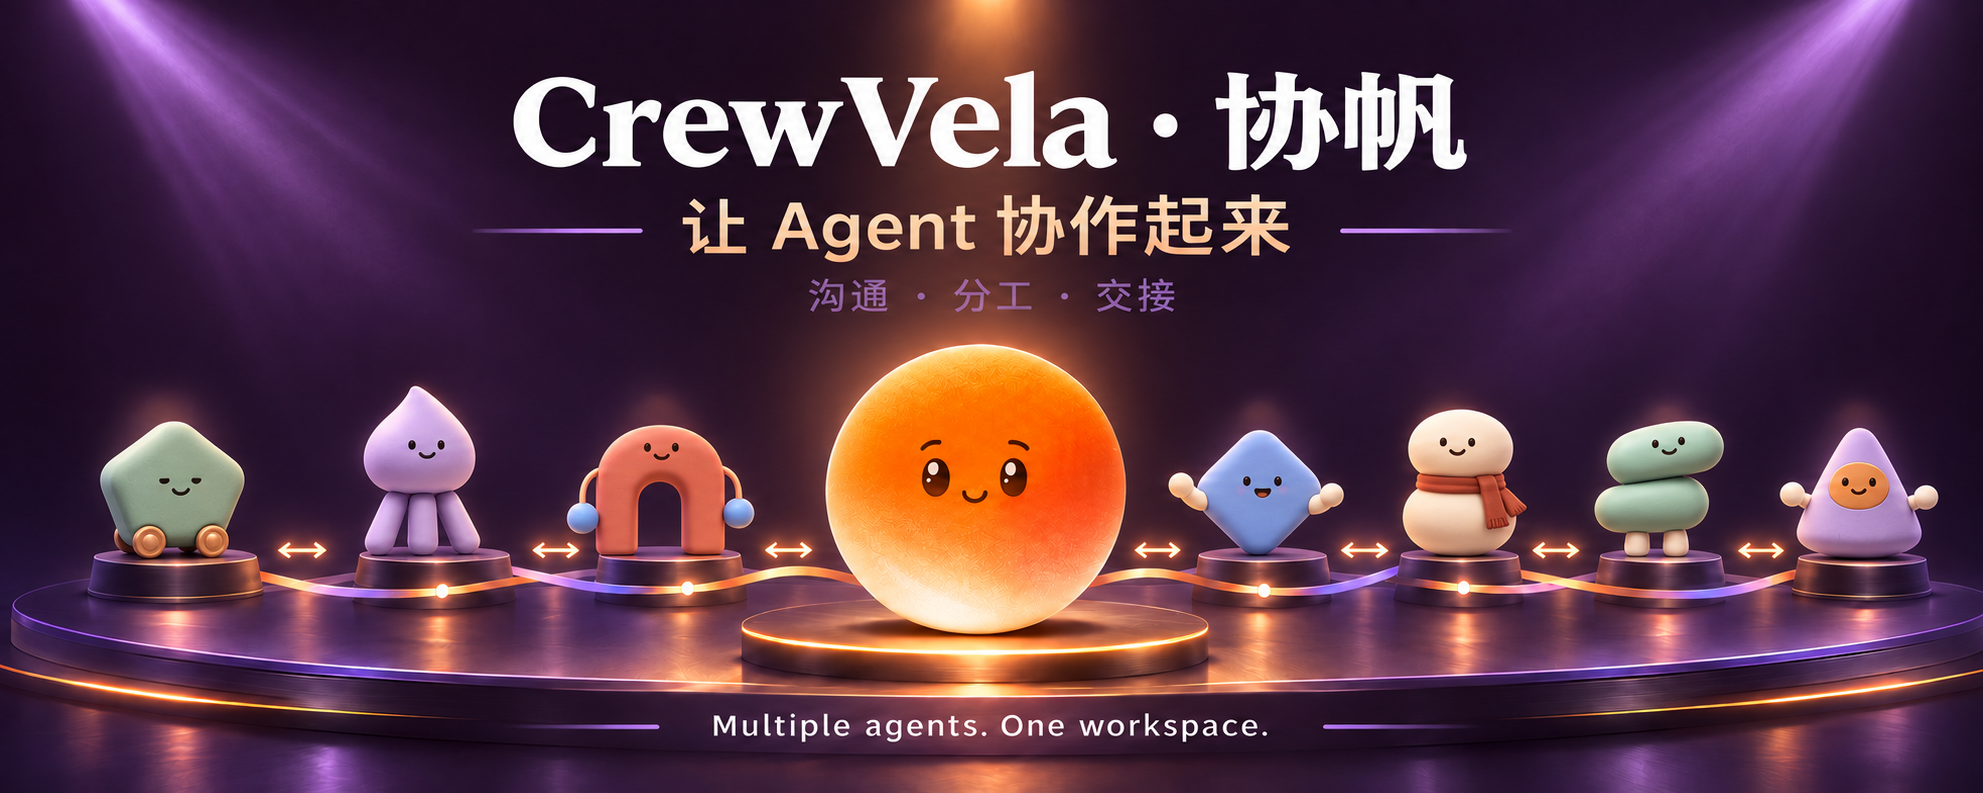
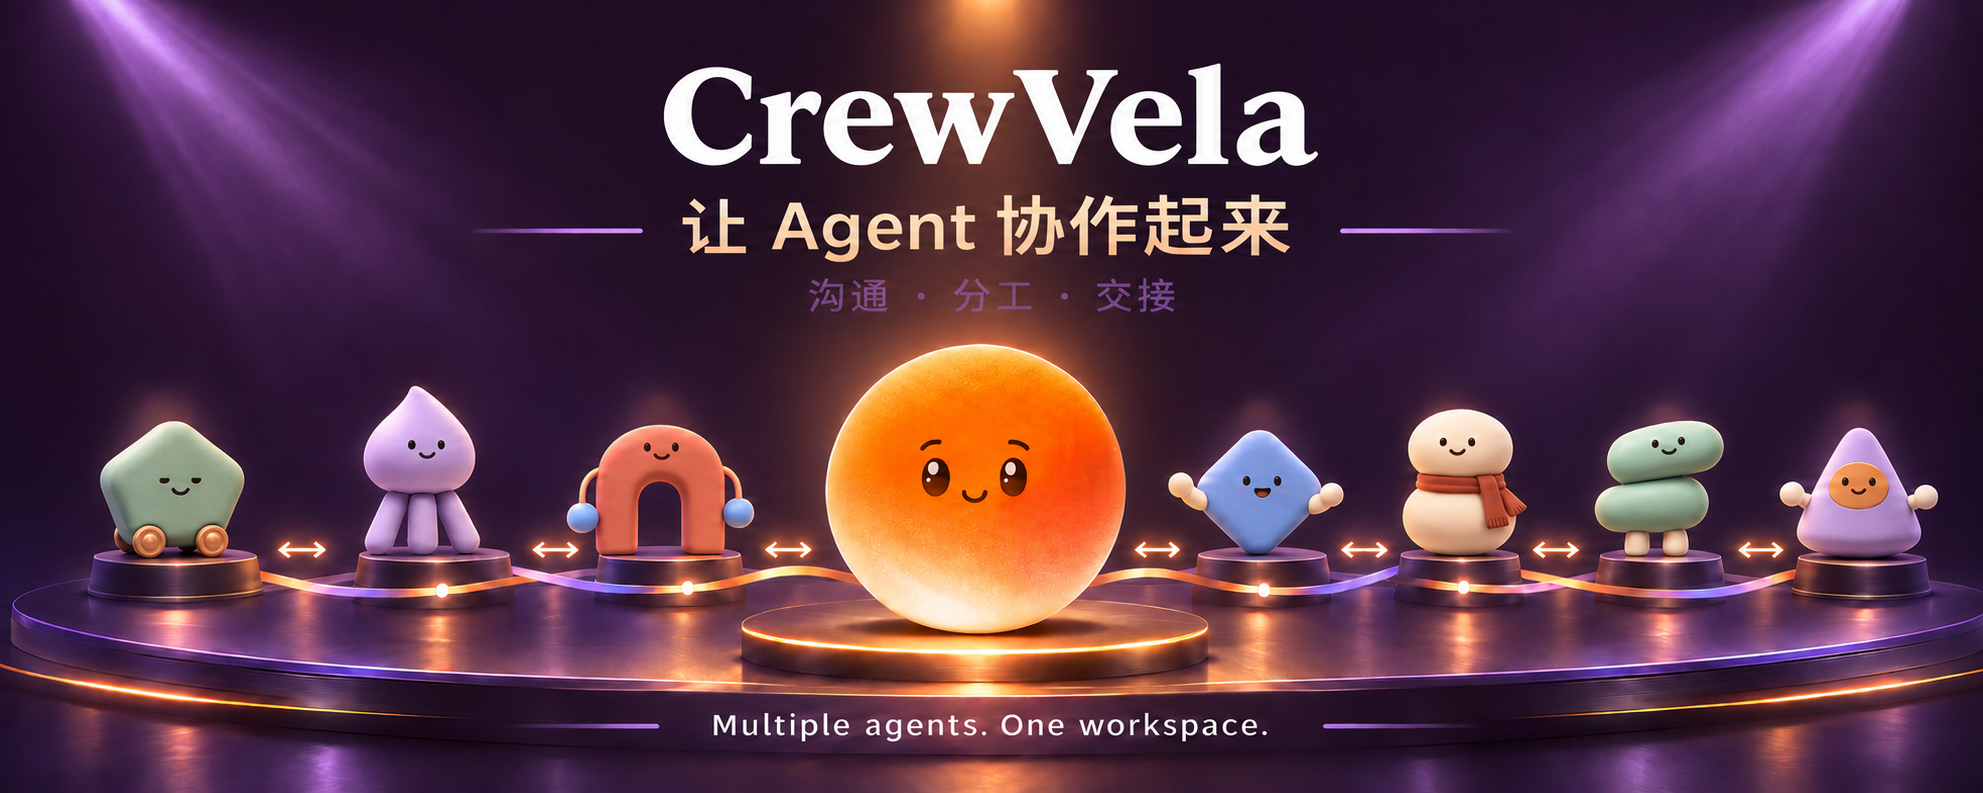
chore(brand): 移除中文副标题并统一使用 CrewVela 名称

diff --git a/src/components/NotificationSettingsPanel.tsx b/src/components/NotificationSettingsPanel.tsx
@@ -90,7 +90,7 @@ export function NotificationSettingsPanel({ settings, onChange }: Props) {
   const testNotice = async () => {
     setFeedback(null);
     try {
-      const shown = await deliverDesktopNotice({ title: "CrewVela · 协帆 · 测试通知", body: "这是一条测试通知，完整内容已保存在通知历史中。", force: true, category: "test" });
+      const shown = await deliverDesktopNotice({ title: "CrewVela · 测试通知", body: "这是一条测试通知，完整内容已保存在通知历史中。", force: true, category: "test" });
       setFeedback(shown ? { error: false, text: "测试通知已发送。" } : { error: true, text: "通知已记录，但系统未显示弹窗。请检查通知权限和系统设置。" });
     } catch (reason) { setFeedback({ error: true, text: `测试通知失败：${String(reason)}` }); }
   };

diff --git a/src/App.tsx b/src/App.tsx
@@ -735,8 +735,8 @@ export default function App() {
           void deliverDesktopNotice({
             id: `intervention:${item.id}`,
             title: isFailure
-              ? `CrewVela · 协帆 · ${item.kind === "semantic_review" ? "审核需要处理" : "任务重试失败"}`
-              : "CrewVela · 协帆 · 等待人工处理",
+              ? `CrewVela · ${item.kind === "semantic_review" ? "审核需要处理" : "任务重试失败"}`
+              : "CrewVela · 等待人工处理",
             body: `${item.projectName}：${item.title}`,
             category: "intervention",
           });

diff --git a/src/brand.ts b/src/brand.ts
@@ -1,7 +1,7 @@
-export const PRODUCT_FULL_NAME = "CrewVela · 协帆";
+export const PRODUCT_FULL_NAME = "CrewVela";
 export const PRODUCT_SUBTITLE = "多Agent协作工作台";
 
-const NOTIFICATION_BRAND_PREFIX = /^CrewVela(?:\s*·\s*协帆)?(?:\s*·\s*|\s+|$)/i;
+const NOTIFICATION_BRAND_PREFIX = /^CrewVela(?:\s*·\s*\u534f\u5e06)?(?:\s*·\s*|\s+|$)/i;
 
 export function normalizeNotificationTitle(title: string): string {
   let normalized = title.trim();

diff --git a/index.html b/index.html
@@ -3,7 +3,7 @@
   <head>
     <meta charset="UTF-8" />
     <meta name="viewport" content="width=device-width, initial-scale=1.0" />
-    <title>CrewVela · 协帆</title>
+    <title>CrewVela</title>
   </head>
   <body>
     <div id="root"></div>

diff --git a/src-tauri/src/lib.rs b/src-tauri/src/lib.rs
@@ -296,7 +296,7 @@ async fn open_control_window(app: AppHandle) -> Result<(), String> {
         CONTROL_WINDOW_LABEL,
         WebviewUrl::App("index.html?view=control".into()),
     )
-    .title("CrewVela · 协帆 · 总控会话")
+    .title("CrewVela · 总控会话")
     .inner_size(440.0, 720.0)
     .min_inner_size(360.0, 520.0)
     .resizable(true)
@@ -6560,11 +6560,11 @@ fn setup_tray(app: &tauri::App) -> anyhow::Result<()> {
     use tauri::menu::Menu;
     use tauri::tray::{MouseButton, MouseButtonState, TrayIconBuilder, TrayIconEvent};
 
-    let show = tauri::menu::MenuItem::with_id(app, "show", "显示 CrewVela · 协帆", true, None::<&str>)?;
+    let show = tauri::menu::MenuItem::with_id(app, "show", "显示 CrewVela", true, None::<&str>)?;
     let quit = tauri::menu::MenuItem::with_id(app, "quit", "退出", true, None::<&str>)?;
     let menu = Menu::with_items(app, &[&show, &quit])?;
     let mut builder = TrayIconBuilder::with_id("crewvela-tray")
-        .tooltip("CrewVela · 协帆")
+        .tooltip("CrewVela")
         .menu(&menu)
         .show_menu_on_left_click(false)
         .on_menu_event(|app, event| match event.id.as_ref() {

diff --git a/src-tauri/src/main.rs b/src-tauri/src/main.rs
@@ -1,7 +1,7 @@
 // Prevents an additional console window on Windows in release.
 #![cfg_attr(not(debug_assertions), windows_subsystem = "windows")]
 
-const CLI_USAGE: &str = "CrewVela · 协帆 — 多Agent协作工作台\n会话通信\n用法：CrewVela sessions\n      CrewVela send --to <会话ID> --body <消息>\n新用户隔离测试：CrewVela --test-data-dir <独立测试目录绝对路径>\n无参数仅用于从桌面启动应用。";
+const CLI_USAGE: &str = "CrewVela — 多Agent协作工作台\n会话通信\n用法：CrewVela sessions\n      CrewVela send --to <会话ID> --body <消息>\n新用户隔离测试：CrewVela --test-data-dir <独立测试目录绝对路径>\n无参数仅用于从桌面启动应用。";
 
 fn may_start_gui(first: Option<&str>, agent_identity: bool) -> bool {
     first.is_none() && !agent_identity
@@ -34,7 +34,7 @@ fn main() {
             return;
         }
         Some("--version" | "-V") => {
-            println!("CrewVela · 协帆 {}", env!("CARGO_PKG_VERSION"));
+            println!("CrewVela {}", env!("CARGO_PKG_VERSION"));
             return;
         }
         Some("--session-hook") => {

diff --git a/src-tauri/src/windows_notification.rs b/src-tauri/src/windows_notification.rs
@@ -6,7 +6,7 @@ use windows_registry::CURRENT_USER;
 use windows_sys::Win32::UI::Shell::SetCurrentProcessExplicitAppUserModelID;
 
 const APP_ID: &str = crate::brand::APP_ID;
-const APP_NAME: &str = "CrewVela · 协帆";
+const APP_NAME: &str = "CrewVela";
 
 pub fn is_unpacked_build(exe: &Path) -> bool {
     let Some(parent) = exe.parent() else {

diff --git a/docs/release-installers-validation.md b/docs/release-installers-validation.md
@@ -6,7 +6,7 @@
 
 ## Mac DMG
 
-用户提供的 `CrewVela · 协帆_0.1.0_aarch64.dmg` 复制为 `output/releases/v0.1.0/CrewVela-0.1.0-macos-arm64.dmg`。只改变外部文件名，未改镜像或 app 内容。
+用户提供的旧显示名称 ARM64 DMG 复制为 `output/releases/v0.1.0/CrewVela-0.1.0-macos-arm64.dmg`。只改变外部文件名，未改镜像或 app 内容。
 
[1 lines of base64/hex data omitted]
 
@@ -28,7 +28,7 @@ npm run bundle:windows
 - Node 全量：425 通过、1 项既有跳过，0 失败。
 - 发布资源检查：1/1，通过，保留生产协议、内嵌入口和 JS/CSS 的有效断言。
 - `npm run tauri -- build --no-bundle` 成功，包含 TypeScript/Vite 构建；保留 48 条既有普通库 Rust 警告和前端大 chunk 提示。
-- `npm run bundle:windows` 成功，调用 makensis 生成 NSIS 安装向导。原始输出为 `src-tauri/target/release/bundle/nsis/CrewVela · 协帆_0.1.0_x64-setup.exe`，复制为 `output/releases/v0.1.0/CrewVela-0.1.0-windows-x64-setup.exe`；复制前后散列相同。
+- `npm run bundle:windows` 成功，调用 makensis 生成 NSIS 安装向导。当时输出为旧显示名称的 NSIS 安装包，复制为 `output/releases/v0.1.0/CrewVela-0.1.0-windows-x64-setup.exe`；复制前后散列相同。
 - 安装包为有效 PE，含 NullsoftInst 标记；生成的 NSIS 脚本为 x64 目标、当前用户模式，明确只打包主 EXE 和 5 个许可文件，并生成标准卸载程序。没有把本地历史、账号、node_modules 或测试数据目录作为资源。
 - 实际运行：语言选择默认简体中文，进入中文欢迎页和 MIT 许可页，未点击接受条款或安装，按取消退出；没有执行安装/卸载或启动真实 Agent。坐标交互有一次未推进，改用向导原生快捷键后成功核对许可内容；未把工具交互问题记为功能通过。
 - Windows Authenticode 状态为 `NotSigned`；没有跳过或关闭系统安全保护。未验证从网络下载后的 SmartScreen 行为。

diff --git a/docs/public-source-verification.md b/docs/public-source-verification.md
@@ -23,7 +23,7 @@
 - 在副本运行 `npm test`：420 通过、1 项既有跳过、0 失败。
 - 在副本运行 `npm run build`：TypeScript 检查及 Vite 生产构建通过，保留已有的大 chunk 提示。
 - 首次源码验收临时复用本机依赖，验收后将依赖链接和生成文件移出了公开目录。后续打包验证已在本副本独立执行 `npm ci`，安装 203 个包，没有借用原项目的依赖链接或构建目录；仍未在全新机器验收系统工具链安装。
-- Windows 打包命令 `npm run tauri -- build --no-bundle` 已执行通过，输出默认的 `src-tauri/target/release/CrewVela.exe`；程序 `--version` 返回 `CrewVela · 协帆 0.1.0`。
+- Windows 打包命令 `npm run tauri -- build --no-bundle` 已执行通过，输出默认的 `src-tauri/target/release/CrewVela.exe`；该次程序版本检查确认版本号为 `0.1.0`（显示名称为历史版本，不代表当前构建）。
 - 已有的发布资源集成检查 `packaged_desktop_embeds_entry_and_referenced_assets` 通过（1/1），确认内嵌入口及引用的 JS/CSS，且入口不含 localhost 开发服务器引用。
 - 独立安装依赖后再跑 `npm test`，仍为 420 通过、1 项既有跳过。使用 Node 24.12.0 / Cargo 1.96.0 / Windows MSVC 工具链。
 - 构建保留现有 48 条 Rust warning、Vite 大 chunk 提示及 Tauri macOS identifier 提示。`npm ci` 和 `npm audit` 报告 16 项依赖漏洞：6 中危、9 高危、1 严重；严重项是间接依赖 `proxy-addr`。本次没有自动升级依赖或修改锁文件，发布前需另行评估和处理。

diff --git a/docs/agent-communication-validation.md b/docs/agent-communication-validation.md
@@ -108,4 +108,4 @@ rtk proxy npm run tauri -- build --no-bundle
 
 浏览器回归先启动独立 Vite 端口，再设置 `CREWVELA_UI_URL`，执行 `tests/collaborationAsync.ui.mjs`、`tests/collaborationMemberCounts.ui.mjs`、`tests/retainedControlAsync.ui.mjs`。
 
[2 lines of base64/hex data omitted]

diff --git a/docs/media/README.md b/docs/media/README.md
@@ -3,6 +3,7 @@
 - `author-drumstick.gif`：按用户要求收录此前生成的「给作者加个鸡腿」搞怪表情包，原样复制；314×314，16 帧，约 2.67 秒无限循环。用于 README 趣味互动区，不是收款码或产品演示。
 
 - `crewvela-collaboration-banner.png`：2026-11-09 用 Image Gen 重新生成的宣传图。保留 CrewVela 橙色球形形象与聚光灯舞台；其余为抽象通用角色，替换原先参考第三方 Agent 角色的部分。不是产品截图或消息收发证据。
+  2026-11-11 用内置 ImageGen 编辑标题为 `CrewVela`，移除旧中文副标题，保留舞台、角色与其余文案。
 - `desktop-multi-agent-workspace-redacted.png`：用户提供的 Windows 多 Agent CLI 分屏实拍，2545×1370；按用户选择，用本机脚本定点遮挡本机路径、用户名和历史任务文字，遮挡区域以外像素保持不变，输出不携带图片元数据。
 - `desktop-native-chat-redacted.png`：用户提供的 Windows 原生聊天与 Agent 标签实拍，2558×1369；采用相同的定点遮挡方式，保留其余真实像素。两张图均保留拍摄时的图标和状态，外观可能与当前版本不同。
 - `crewvela-overview.svg`：项目文字和几何图形组成的工作方式示意，不是产品截图。
